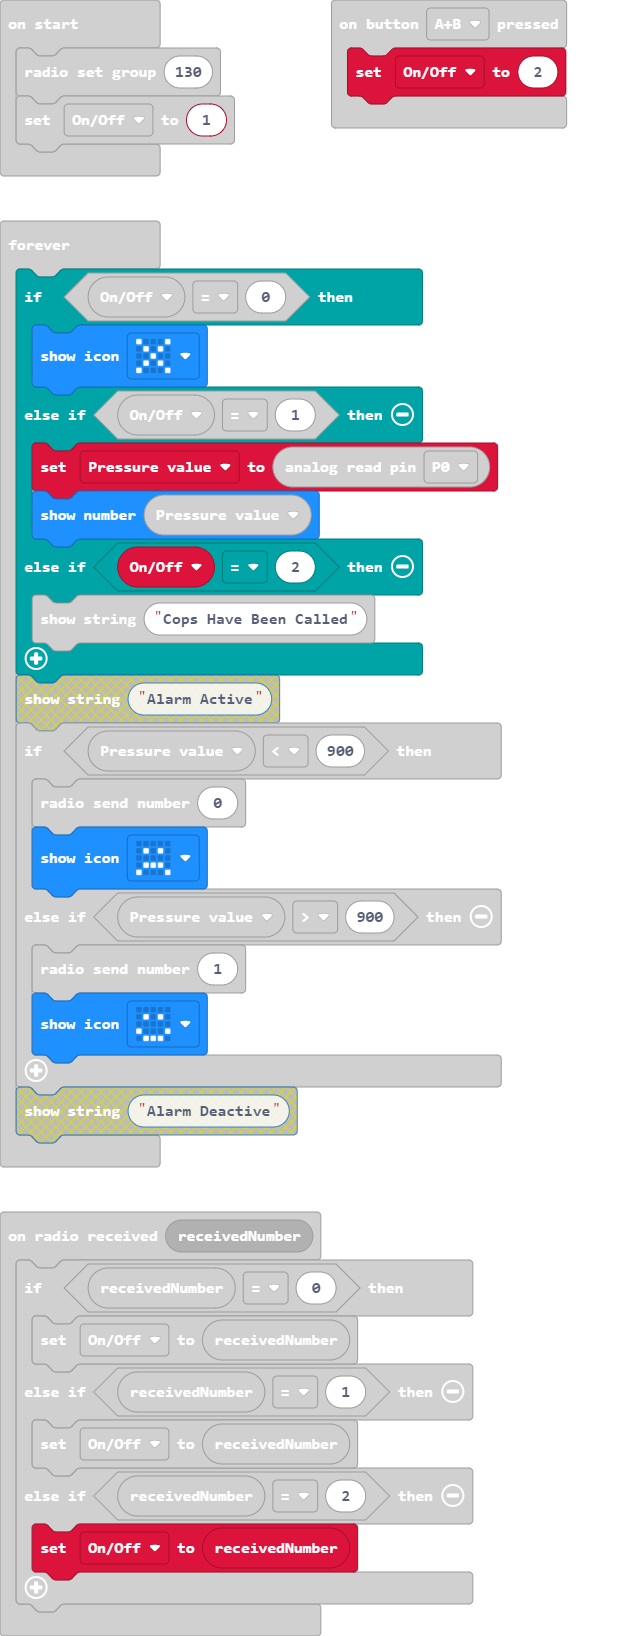
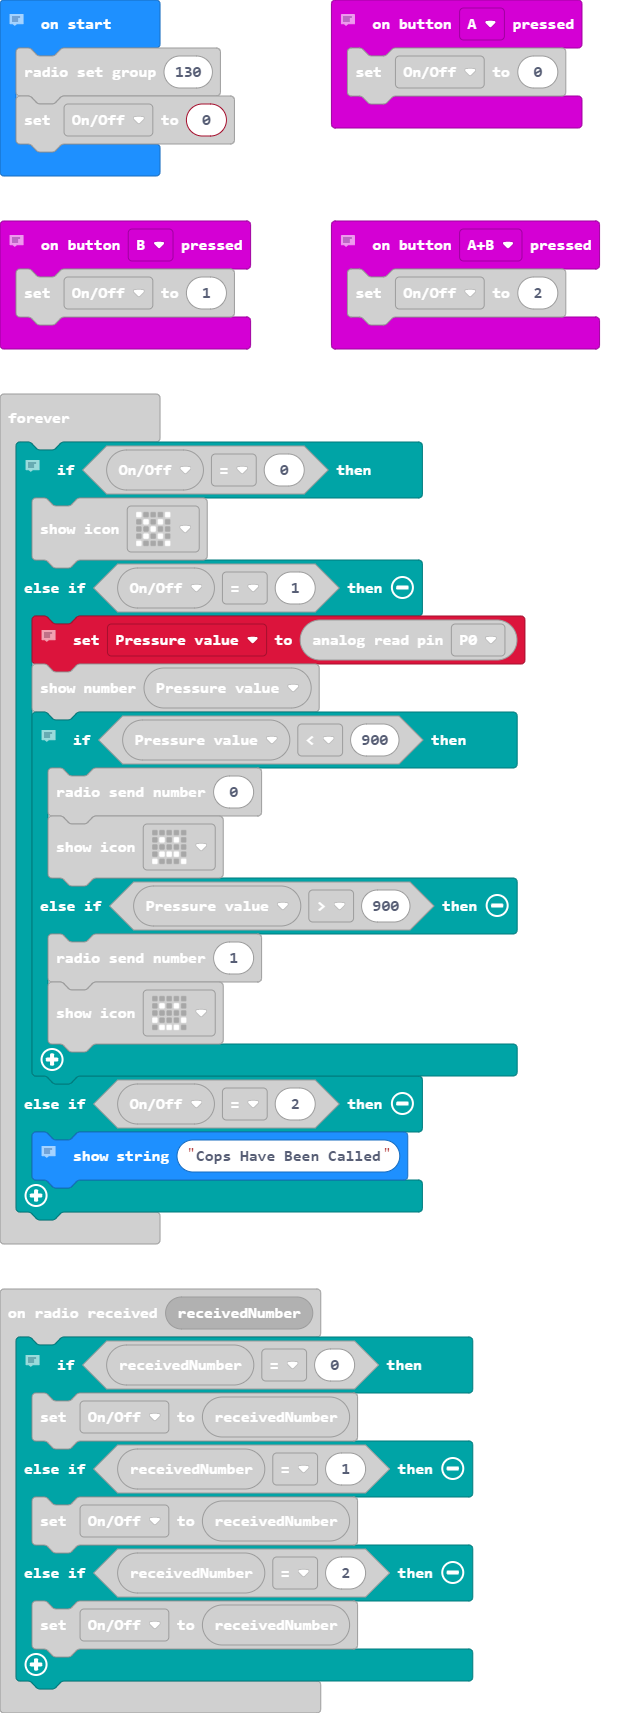
Comments have been set and project is presentable and in final stages.

diff --git a/main.ts b/main.ts
@@ -1,4 +1,5 @@
 radio.onReceivedNumber(function (receivedNumber) {
+    // asks if the received signal is meant to turn the alarm on/off or to call the police.
     if (receivedNumber == 0) {
         OnOff = receivedNumber
     } else if (receivedNumber == 1) {
@@ -7,25 +8,32 @@ radio.onReceivedNumber(function (receivedNumber) {
         OnOff = receivedNumber
     }
 })
+// Manually turns the alarm off
 input.onButtonPressed(Button.A, function () {
     OnOff = 0
 })
+// Manually contacts local authorities.
 input.onButtonPressed(Button.AB, function () {
     OnOff = 2
 })
+// Manually turns the alarm on
 input.onButtonPressed(Button.B, function () {
     OnOff = 1
 })
+// Establishes radio group and also sets the alarm as disengaged.
 let Pressure_value = 0
 let OnOff = 0
 radio.setGroup(130)
-OnOff = 1
+OnOff = 0
 basic.forever(function () {
+    // This asks if the user had the Alarm engaged and whether or not they have called the cops.
     if (OnOff == 0) {
         basic.showIcon(IconNames.No)
     } else if (OnOff == 1) {
+        // detects the value on the pressure sensor which rises when an object is on top of it and decreases when no object is present.
         Pressure_value = pins.analogReadPin(AnalogPin.P0)
         basic.showNumber(Pressure_value)
+        // This code asks whether or not the pressure sensor is detecting enough pressure for the item to still be there and if not then a signal is sent to set of an alarm.
         if (Pressure_value < 900) {
             radio.sendNumber(0)
             basic.showIcon(IconNames.Sad)
@@ -34,6 +42,7 @@ basic.forever(function () {
             basic.showIcon(IconNames.Happy)
         }
     } else if (OnOff == 2) {
+        // Warns the robber to return the objects as the cops have been called.
         basic.showString("Cops Have Been Called")
     }
 })
